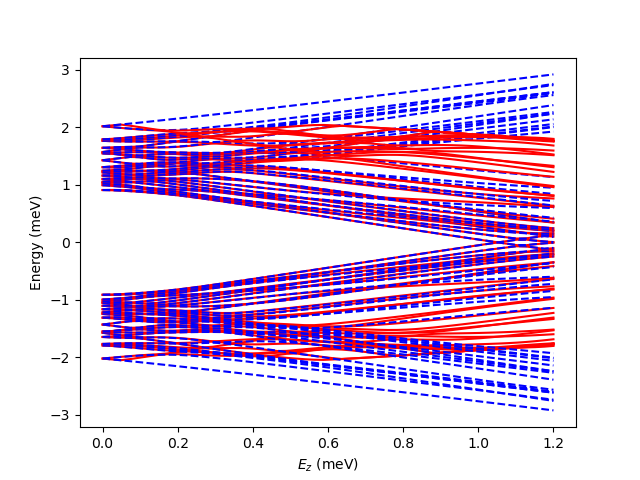
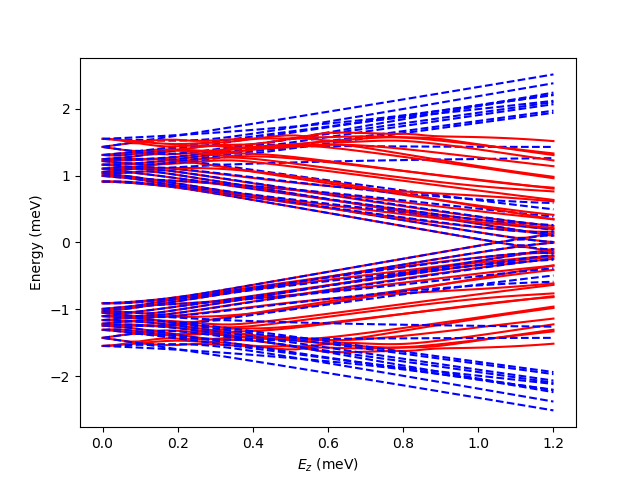
changes to file saving

diff --git a/nodular_JJ/topological_PD/fullH_allk.py b/nodular_JJ/topological_PD/fullH_allk.py
@@ -62,15 +62,15 @@ steps = int(delta_mu/(0.5*res)) + 1
 mu = np.linspace(mu_i, mu_f, steps) #Chemical Potential: [meV]
 
 gi = 0
-gf = 1.3
-res = 0.001
+gf = 1.0
+res = 0.005
 steps = int((gf - gi)/(0.5*res)) + 1
 gx = np.linspace(gi, gf, steps)
 
-q_steps = 101
+q_steps = 51
 qx = np.linspace(0, np.pi/Lx, q_steps) #kx in the first Brillouin zone
 
-k = 60
+k = 44
 ###################################################
 #phase diagram mu vs gamx
 dirS = 'gap_data'
@@ -153,7 +153,7 @@ else:
 
     title = r"$L_x =$ {} nm, $L_y =$ {} nm, SC width = {} nm, $W_j =$ {} nm, $nodule_x = ${} nm, $nodule_y = ${} nm, $\alpha = $ {} meV*A, $\phi =$ {} ".format(Lx*.1, Ly*.1, SC_width, Junc_width, Nod_widthx, Nod_widthy, alpha, phi)
     plt.title(title, loc = 'center', wrap = True)
-    plt.savefig('juncwidth = {} SCwidth = {} V0 = {} nodwidthx = {} nodwidthy = {} Delta = {} Alpha = {} phi = {} mu_i = {} mu_f = {}.png'.format(Junc_width, SC_width, V0, Nod_widthx, Nod_widthy, delta, alpha, phi, mu_i, mu_f))
+    plt.savefig('juncwidth = {} SCwidth = {} V0 = {} nodwidthx = {} nodwidthy = {} Delta = {} Alpha = {} phi = {} mu_i = {} mu_f = {}.png'.format(Junc_width, SC_width, Vsc, Nod_widthx, Nod_widthy, delta, alpha, phi, mu_i, mu_f))
     plt.show()
 
     sys.exit()

diff --git a/nodular_JJ/gamma scan/E_Gx.py b/nodular_JJ/gamma scan/E_Gx.py
@@ -57,7 +57,7 @@ MU = 55 #Chemical Potential: [meV]
 
 #Energy plot vs Zeeman energy in x-direction
 
-k = 60 #number of perturbation energy eigs
+k = 44 #number of perturbation energy eigs
 Q = 1e-4*(np.pi/Lx)
 
 H0 = spop.HBDG(coor, ax, ay, NN, NNb=NNb, Wj=Wj, cutx=cutx, cuty=cuty, V=V, mu=MU, alpha=alpha, delta=delta, phi=phi, qx=Q, periodicX=True)
